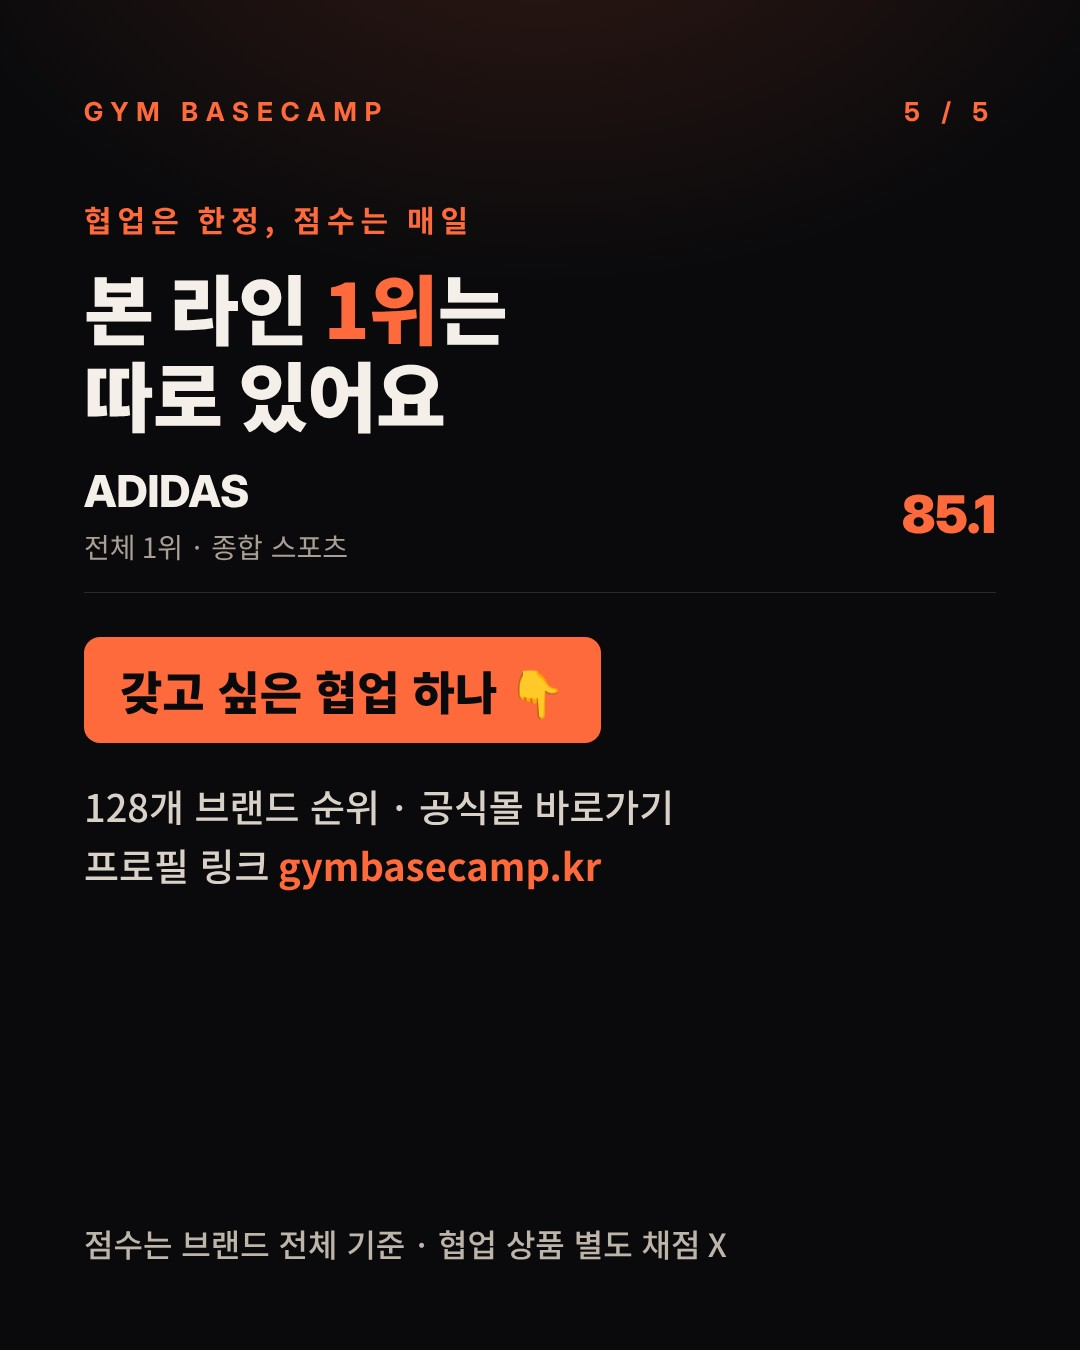
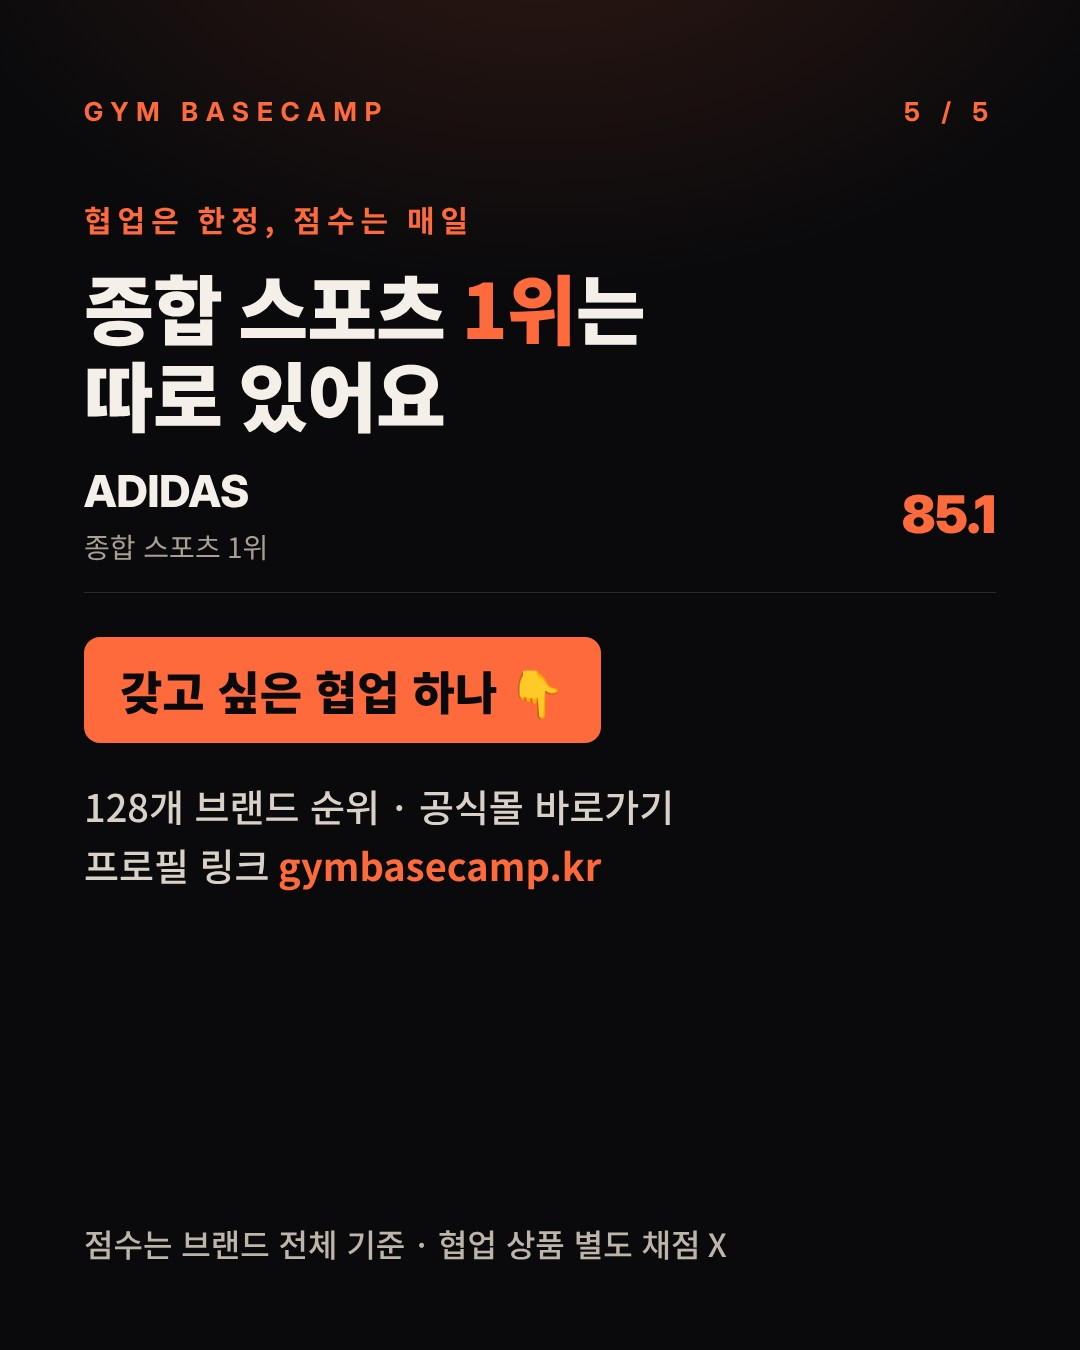
11/26 카드: 전체 순위 표현 → 종목 순위로 수정
Claude-Session: https://claude.ai/code/session_01KSYt8pLw5un72KW7Zg7ZUo

Changed region(s): [[0.0611, 0.1867, 0.6111, 0.28], [0.0917, 0.3733, 0.2444, 0.4356], [0.275, 0.4044, 0.3056, 0.4356]]

diff --git a/reels/cards/2026-11-26/collab.html b/reels/cards/2026-11-26/collab.html
@@ -40,8 +40,8 @@ p.lead{font:500 38px/1.55 'Noto Sans CJK KR';color:#d9d1c8;margin-top:34px}
 .mv{display:flex;justify-content:space-between;align-items:center;border-bottom:1px solid rgba(244,239,232,.14);padding:26px 0}.mv .nm{font:800 44px 'Inter Display','Noto Sans CJK KR'}.mv .nm span{display:block;font:400 28px 'Noto Sans CJK KR';color:#a99f95;margin-top:8px}.mv .up{font:900 52px 'Inter Display';color:#FF6A3D}</style>
 <body>
 <div class="s on" id="s1"><div class="top"><span>GYM BASECAMP</span><span>1 / 5</span></div><div class="kick">이번 달 운동복 협업</div><h1>콜라보 3개,<br>그 브랜드<br><em>몇 점?</em></h1><p class="lead">NikeSKIMS · Gymshark · Barry's×Abercrombie<br>뉴스 말고 점수로 봐요.</p><div class="foot"><span>GYM BASECAMP 100점 기준 · 광고·협찬 없음</span><span>넘겨서 →</span></div></div>
-<div class="s" id="s2"><div class="top"><span>GYM BASECAMP</span><span>2 / 5</span></div><div class="kick">① NikeSKIMS 레트로 스포츠</div><h2>11/17 출시<br><em>나이키 × 스킴스</em></h2><div class="ex">빈티지 스포츠 플리스 · 후드 패딩<br>하프집 코치 재킷 · 와플 레이서 컬러<br>판매: Nike · SKIMS 공식몰</div><div class="mv"><div class="nm">NIKE<span>전체 128개 중 6위</span></div><div class="up">83.1</div></div><div class="foot"><span>출처 Hypebae 11/16 · 점수 11/21</span><span>넘겨서 →</span></div></div>
-<div class="s" id="s3"><div class="top"><span>GYM BASECAMP</span><span>3 / 5</span></div><div class="kick">② Gymshark SoftSense</div><h2>리프터를 위한<br><em>필라테스 라인</em></h2><div class="ex">레깅스 · 스포츠브라 · 플레어 팬츠 등 11피스<br>LYCRA ADAPTIV 소재 · 6가지 컬러<br>판매: gymshark.com</div><div class="mv"><div class="nm">GYMSHARK<span>전체 128개 중 26위</span></div><div class="up">79.1</div></div><div class="foot"><span>출처 Hypebae 10/22 · 점수 11/21</span><span>넘겨서 →</span></div></div>
-<div class="s" id="s4"><div class="top"><span>GYM BASECAMP</span><span>4 / 5</span></div><div class="kick">③ Barry's × Abercrombie</div><h2>YPB 협업<br><em>아직 순위 밖</em></h2><div class="ex">여성 12 · 남성 6 스타일 (10/1 공개)<br>Barry's 스튜디오 75곳 · barrys.com 판매</div><p class="lead">우리 DB 128개 브랜드에 아직 없어요.<br><b style="color:#FF6A3D">넣을지 말지, 댓글로 투표</b></p><div class="foot"><span>출처 BOXROX 11/4</span><span>넘겨서 →</span></div></div>
-<div class="s" id="s5"><div class="top"><span>GYM BASECAMP</span><span>5 / 5</span></div><div class="kick">협업은 한정, 점수는 매일</div><h2>본 라인 <em>1위</em>는<br>따로 있어요</h2><div class="mv"><div class="nm">ADIDAS<span>전체 1위 · 종합 스포츠</span></div><div class="up">85.1</div></div><div class="badge">갖고 싶은 협업 하나 👇</div><p class="lead">128개 브랜드 순위 · 공식몰 바로가기<br>프로필 링크 <b style="color:#FF6A3D">gymbasecamp.kr</b></p><div class="foot"><span>점수는 브랜드 전체 기준 · 협업 상품 별도 채점 X</span></div></div>
+<div class="s" id="s2"><div class="top"><span>GYM BASECAMP</span><span>2 / 5</span></div><div class="kick">① NikeSKIMS 레트로 스포츠</div><h2>11/17 출시<br><em>나이키 × 스킴스</em></h2><div class="ex">빈티지 스포츠 플리스 · 후드 패딩<br>하프집 코치 재킷 · 와플 레이서 컬러<br>판매: Nike · SKIMS 공식몰</div><div class="mv"><div class="nm">NIKE<span>종합 스포츠 4위 · HYROX 2위(겸)</span></div><div class="up">83.1</div></div><div class="foot"><span>출처 Hypebae 11/16 · 점수 11/21</span><span>넘겨서 →</span></div></div>
+<div class="s" id="s3"><div class="top"><span>GYM BASECAMP</span><span>3 / 5</span></div><div class="kick">② Gymshark SoftSense</div><h2>리프터를 위한<br><em>필라테스 라인</em></h2><div class="ex">레깅스 · 스포츠브라 · 플레어 팬츠 등 11피스<br>LYCRA ADAPTIV 소재 · 6가지 컬러<br>판매: gymshark.com</div><div class="mv"><div class="nm">GYMSHARK<span>헬스·보디빌딩 점수 · HYROX 3위(겸)</span></div><div class="up">79.1</div></div><div class="foot"><span>출처 Hypebae 10/22 · 점수 11/21</span><span>넘겨서 →</span></div></div>
+<div class="s" id="s4"><div class="top"><span>GYM BASECAMP</span><span>4 / 5</span></div><div class="kick">③ Barry's × Abercrombie</div><h2>YPB 협업<br><em>아직 순위 밖</em></h2><div class="ex">여성 12 · 남성 6 스타일 (10/1 공개)<br>Barry's 스튜디오 75곳 · barrys.com 판매</div><p class="lead">우리 128개 브랜드 DB에 아직 없어요.<br><b style="color:#FF6A3D">넣을지 말지, 댓글로 투표</b></p><div class="foot"><span>출처 BOXROX 11/4</span><span>넘겨서 →</span></div></div>
+<div class="s" id="s5"><div class="top"><span>GYM BASECAMP</span><span>5 / 5</span></div><div class="kick">협업은 한정, 점수는 매일</div><h2>종합 스포츠 <em>1위</em>는<br>따로 있어요</h2><div class="mv"><div class="nm">ADIDAS<span>종합 스포츠 1위</span></div><div class="up">85.1</div></div><div class="badge">갖고 싶은 협업 하나 👇</div><p class="lead">128개 브랜드 순위 · 공식몰 바로가기<br>프로필 링크 <b style="color:#FF6A3D">gymbasecamp.kr</b></p><div class="foot"><span>점수는 브랜드 전체 기준 · 협업 상품 별도 채점 X</span></div></div>
 </body>
